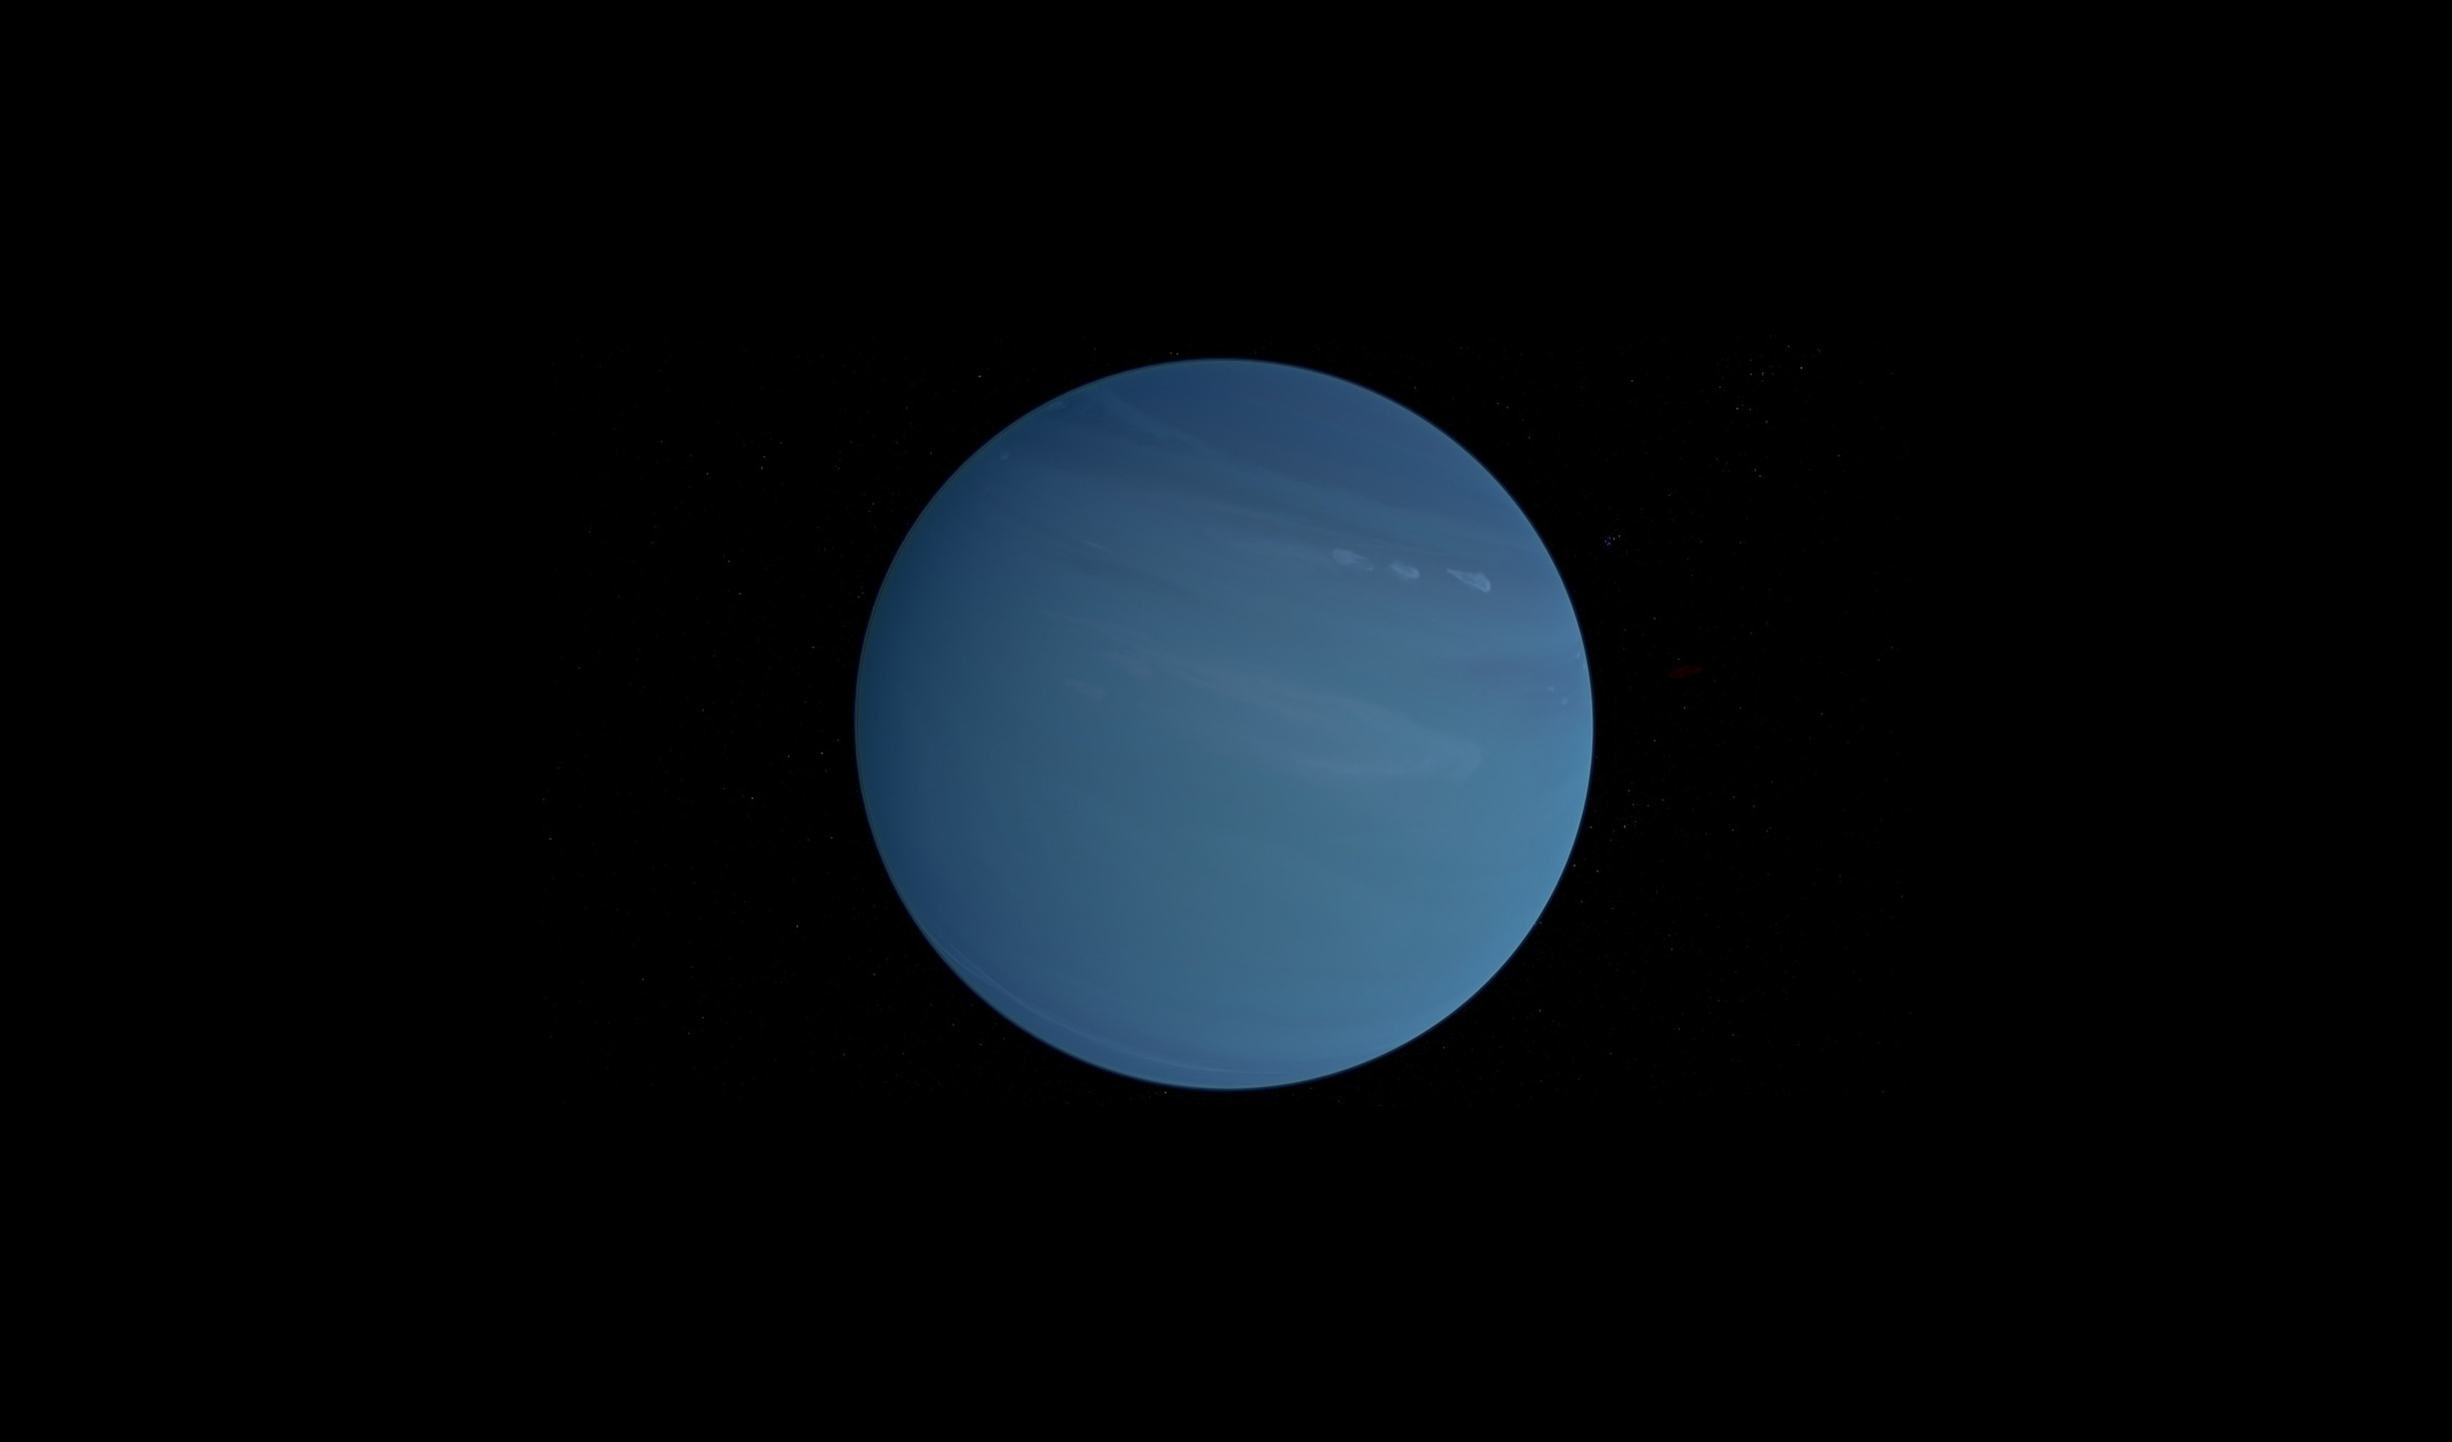
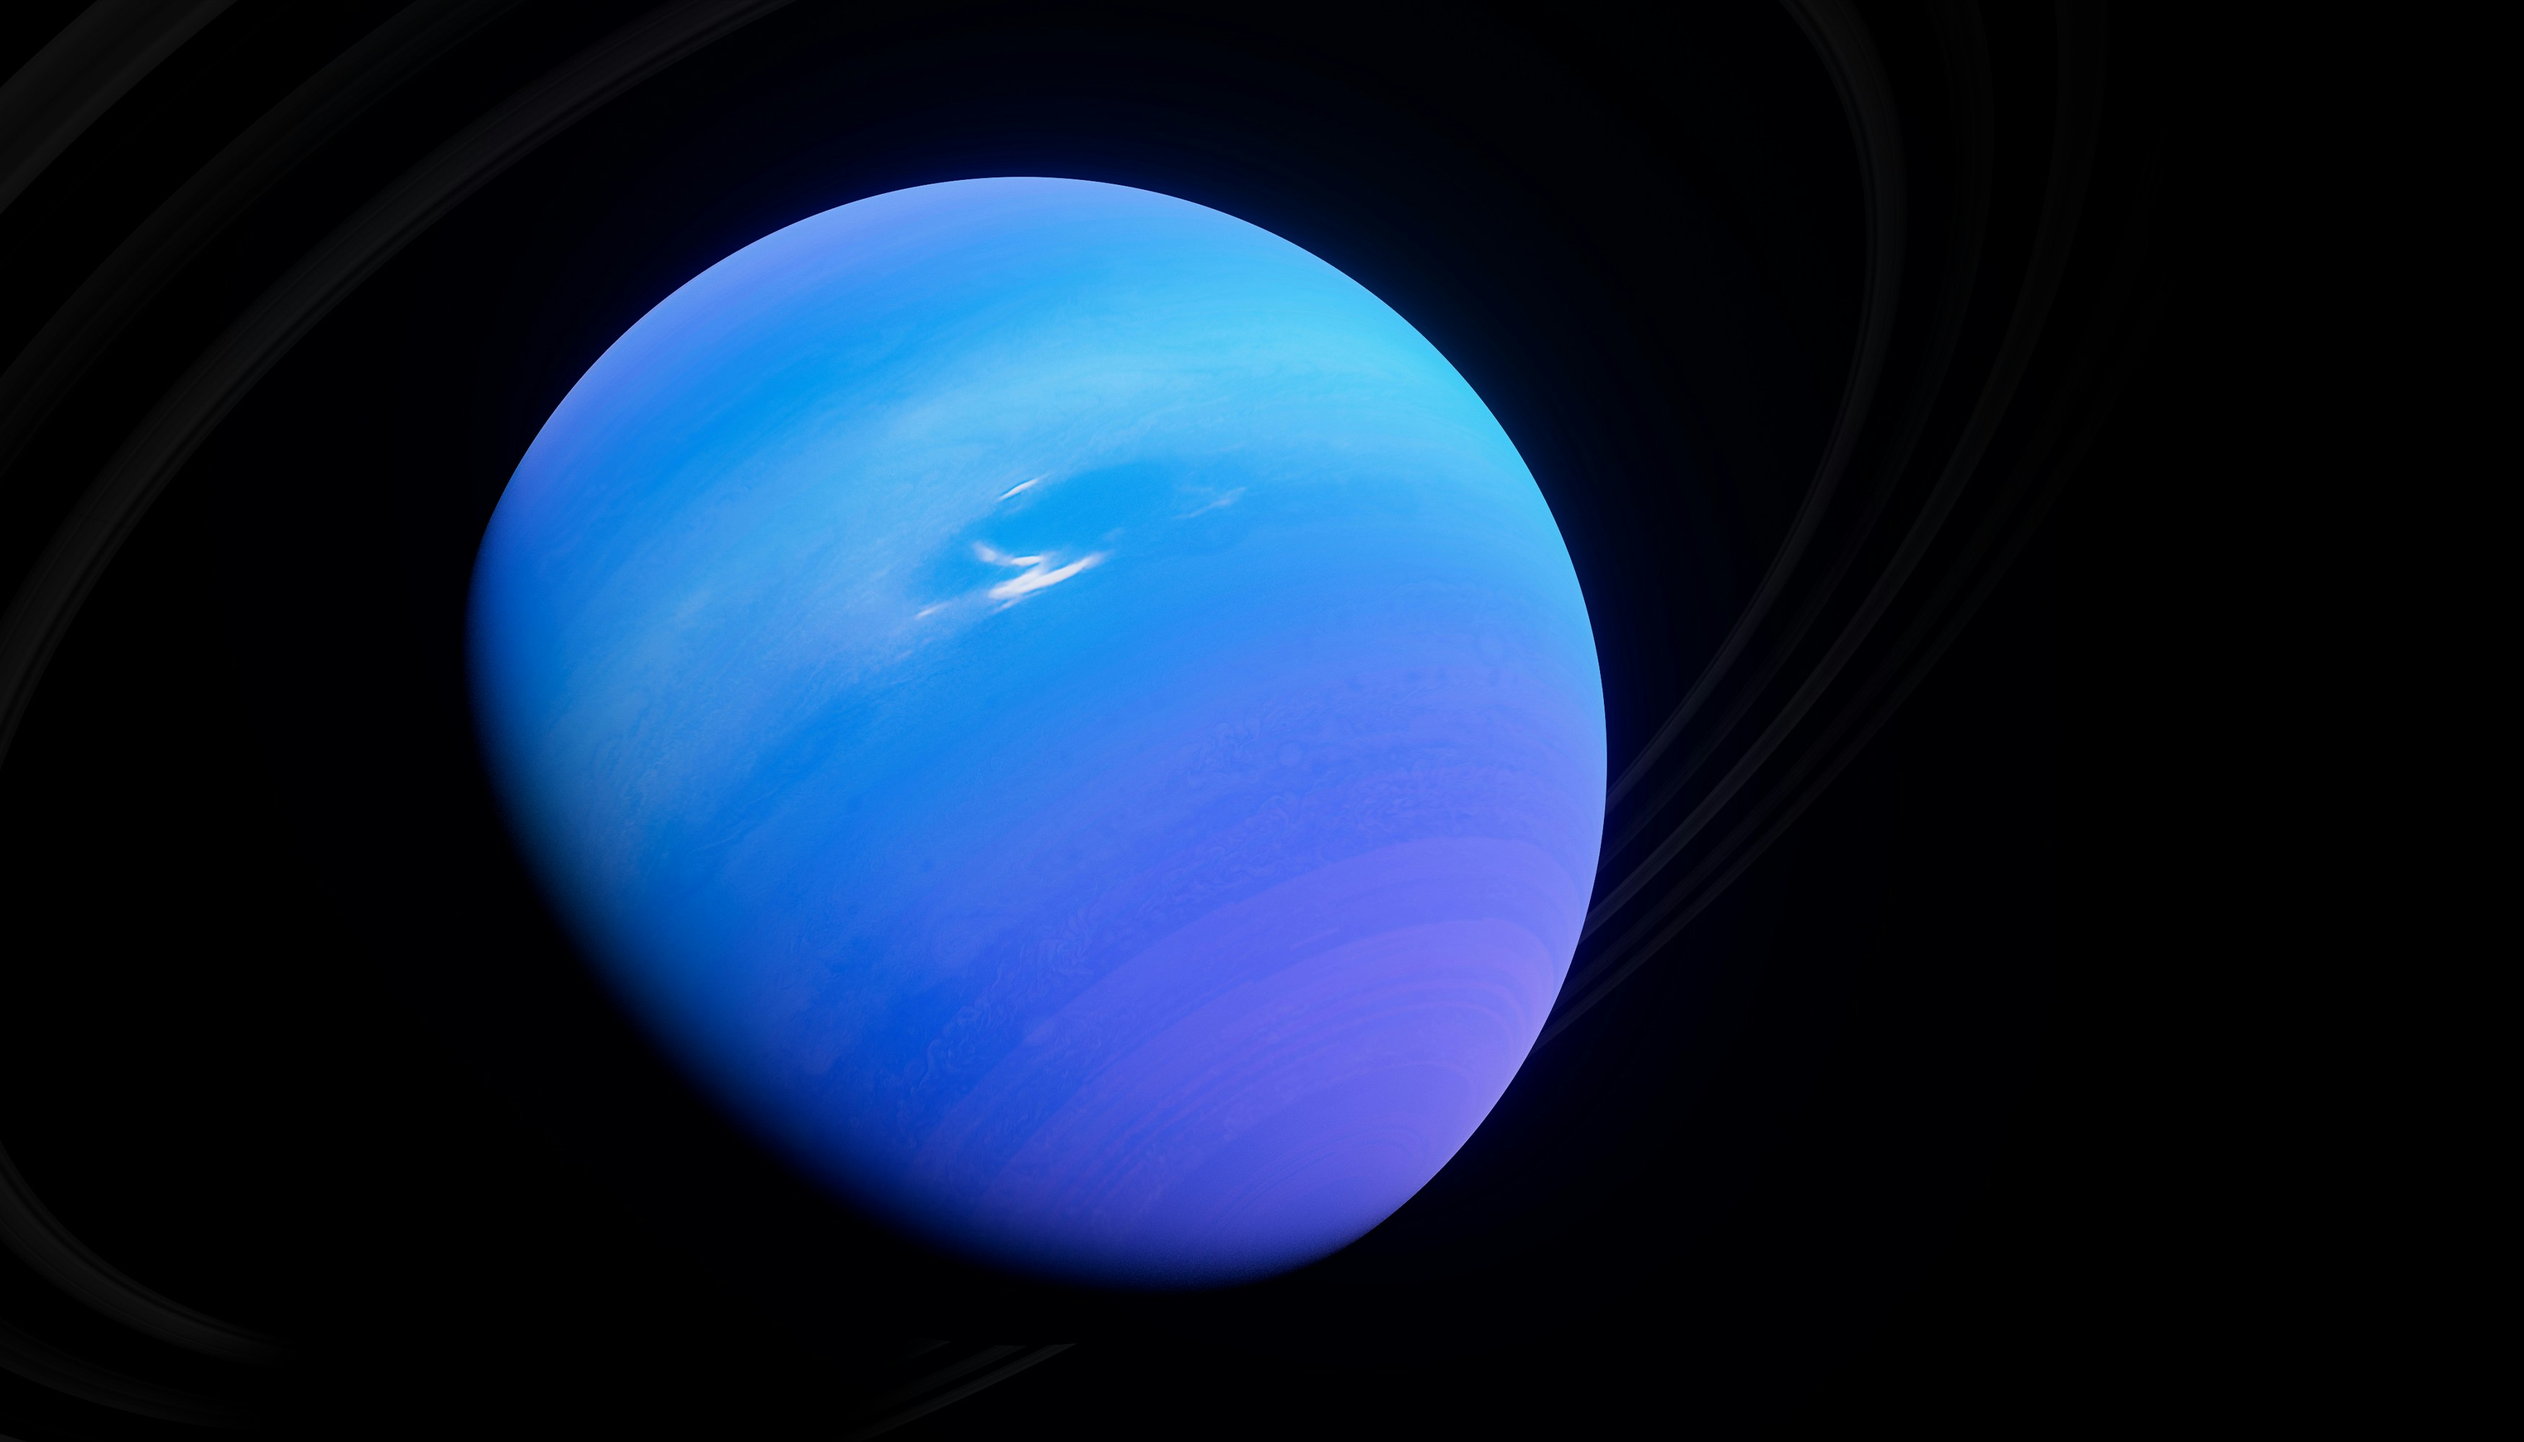
att

Changed region(s): [[0.1871, 0.062, 0.6859, 0.899]]

diff --git a/projeto-astronomia/buraconegro.html b/projeto-astronomia/buraconegro.html
@@ -52,7 +52,7 @@
         <h1 class="title">Buraco Negro</h1>
         <main id="buraconegro">
             <section>
-                <p>Buracos negros nascem quando uma estrela muito maior que o Sol chega ao fim da vida. Após gastar todo seu combustível, ela explode em uma supernova e seu núcleo colapsa sob a própria gravidade. Essa compressão extrema cria uma região tão densa e poderosa que nada — nem mesmo a luz — consegue escapar. Assim nasce um buraco negro, um dos fenômenos mais misteriosos e intensos do universo.</p>
+                <p class="text">Buracos negros nascem quando uma estrela muito maior que o Sol chega ao fim da vida. Após gastar todo seu combustível, ela explode em uma supernova e seu núcleo colapsa sob a própria gravidade. Essa compressão extrema cria uma região tão densa e poderosa que nada — nem mesmo a luz — consegue escapar. Assim nasce um buraco negro, um dos fenômenos mais misteriosos e intensos do universo.</p>
             </section>
         </main>
 

diff --git a/projeto-astronomia/sol.html b/projeto-astronomia/sol.html
@@ -12,7 +12,7 @@
     <link rel="stylesheet" href="estilos/curiosidades.css">
 </head>
 <body>
-    <header id="csol">
+    <header>
         <h1>Sol</h1>
     </header>
 
@@ -52,7 +52,7 @@
         <h1 class="title">Sol</h1>
         <main id="sol">
             <section>
-                <p>O Sol nasceu há cerca de 4,6 bilhões de anos, quando uma enorme nuvem de gás e poeira entrou em colapso pela gravidade. O centro dessa nuvem ficou tão quente e denso que começou a produzir luz e calor através de reações nucleares. Assim surgiu o Sol, a estrela que deu origem e energia para todo o Sistema Solar.</p>
+                <p class="text">O Sol nasceu há cerca de 4,6 bilhões de anos, quando uma enorme nuvem de gás e poeira entrou em colapso pela gravidade. O centro dessa nuvem ficou tão quente e denso que começou a produzir luz e calor através de reações nucleares. Assim surgiu o Sol, a estrela que deu origem e energia para todo o Sistema Solar.</p>
             </section>
         </main>
 

diff --git a/projeto-astronomia/estilos/curiosidades.css b/projeto-astronomia/estilos/curiosidades.css
@@ -26,7 +26,7 @@ header > h1{
 
 }
 
-#csol{
+header{
     background-image: url(../imagens/header-sol.jpg);
 }
 
@@ -36,13 +36,19 @@ main{
     background-size: cover;
 
     margin: auto;
-    width: 90%;
-    height: 50%;
+    width: 100%;
+    height: 70%;
     border-radius: 10px;
-    border: 5px solid rgba(255, 255, 255, 0.411);
     display: flex;
-    justify-content: left;
     align-items: center;
+}
+
+main#tempo, #sol, #buraconegro{
+    justify-content: left;
+}
+
+main#voyage{
+    justify-content: right;
 }
 
 section{
@@ -64,7 +70,7 @@ article{
 }
 
 .just{
-    background-image: url(../imagens/starry-sky-1655503.jpg);
+    
     background-position: center center;
     background-repeat: no-repeat;
     background-size: cover;
@@ -83,6 +89,12 @@ article{
     text-align: center;
     border-radius: 20px;
     border: 3px solid black;
+}
+
+.text{
+    text-align: left;
+    line-height: 1.3em;
+    font-size: 1.2em;
 }
 
 #sol{

diff --git a/projeto-astronomia/tempo.html b/projeto-astronomia/tempo.html
@@ -52,7 +52,7 @@
         <h1 class="title">O Tempo no espaço</h1>
         <main id="tempo">
             <section>
-                <p>Lorem ipsum dolor sit amet, consectetur adipisicing elit. Ipsam quod ducimus voluptatem sit aut corporis nisi pariatur, totam necessitatibus. Sit animi quis vel eaque, id necessitatibus cumque! Vel, vitae eaque.</p>
+                <p class="text">No espaço, o tempo não passa igual para todos. Ele depende da velocidade e da gravidade. Quanto mais rápido você se move, mais devagar o tempo passa para você. E quanto mais forte é a gravidade — como perto de um planeta gigante ou de um buraco negro — mais o tempo também desacelera. Isso significa que dois relógios em lugares diferentes do universo podem marcar tempos diferentes, mesmo sendo idênticos. Esse fenômeno é o que chamamos de espaço-tempo, onde o tempo e o espaço se curvam e mudam juntos.</p>
             </section>
         </main>
 

diff --git a/projeto-astronomia/jupiter.html b/projeto-astronomia/jupiter.html
@@ -54,7 +54,7 @@
 
     <main>
         <section id="jupiter">
-            <p class="text">Júpiter nasceu há cerca de 4,5 bilhões de anos, quando uma grande quantidade de gás, gelo e poeira começou a se acumular numa região fria do disco que rodeava o Sol jovem. Seu núcleo rochoso cresceu rápido e ficou tão massivo que passou a atrair enormes quantidades de hidrogênio e hélio — muito mais do que qualquer outro planeta. Assim, Júpiter se transformou no maior planeta do Sistema Solar, uma gigante bola de gás que molda a órbita e o comportamento de muitos objetos ao seu redor.</p>
+            <p class="text">Júpiter nasceu há cerca de 4,5 bilhões de anos quando um grande núcleo de gelo e rocha cresceu rápido e começou a atrair enormes quantidades de gás ao seu redor. Assim ele se tornou o maior planeta do Sistema Solar, uma gigantesca bola de hidrogênio e hélio.</p>
         </section>
     </main>
 

diff --git a/projeto-astronomia/marte.html b/projeto-astronomia/marte.html
@@ -54,7 +54,7 @@
 
     <main>
         <section id="marte">
-            <p class="text">Marte nasceu há cerca de 4,5 bilhões de anos, quando poeira e rochas da nebulosa solar começaram a se juntar na região fria e distante do Sol. Ele cresceu menos do que a Terra porque havia pouco material disponível para formar um planeta maior. Assim, Marte se tornou um mundo rochoso menor e mais frio, com uma atmosfera fina. Nos primeiros bilhões de anos, teve vulcões gigantes e bastante água líquida na superfície, deixando rastros que vemos até hoje.</p>
+            <p class="text">Marte se formou há cerca de 4,5 bilhões de anos quando poeira e rochas do Sistema Solar se juntaram, mas com menos material disponível que a Terra, resultando em um planeta menor e mais frio. No início, teve água e atividade vulcânica intensa, deixando marcas que ainda vemos hoje.</p>
         </section>
     </main>
 

diff --git a/projeto-astronomia/voyage.html b/projeto-astronomia/voyage.html
@@ -53,7 +53,7 @@
         <h1 class="title">Voyage 1</h1>
         <main id="voyage">
             <section>
-                <p>A Voyager 1 foi criada pela NASA e lançada em 1977 para explorar os planetas gigantes do Sistema Solar. Ela aproveitou um alinhamento raro entre os planetas para viajar usando pouca energia. O que era para durar poucos anos virou uma missão histórica: hoje, a Voyager 1 é o objeto humano mais distante da Terra, viajando pelo espaço interestelar.</p>
+                <p class="text">A Voyager 1 foi criada pela NASA e lançada em 1977 para explorar os planetas gigantes do Sistema Solar. Ela aproveitou um alinhamento raro entre os planetas para viajar usando pouca energia. O que era para durar poucos anos virou uma missão histórica: hoje, a Voyager 1 é o objeto humano mais distante da Terra, viajando pelo espaço interestelar.</p>
             </section>
         </main>
 

diff --git a/projeto-astronomia/terra.html b/projeto-astronomia/terra.html
@@ -56,7 +56,7 @@
     <main>
         <section id="terra">
             <div class="text">
-                <p>A Terra surgiu há 4,6 bilhões de anos, formada a partir de poeira e rochas que orbitavam o Sol jovem. No começo, era um mundo de fogo, até que um grande impacto criou a Lua e o planeta começou a esfriar. Com o tempo, surgiram oceanos, atmosfera e as condições perfeitas para a vida. Hoje, a Terra é o único lugar conhecido no universo capaz de abrigar tamanha diversidade de seres, resultado de um equilíbrio raro e extraordinário.</p>
+                <p>A Terra nasceu há cerca de 4,6 bilhões de anos quando poeira e rochas ao redor do Sol se juntaram pela gravidade, formando um planeta inicialmente quente e derretido. Depois, ela foi esfriando, criando oceanos, atmosfera e as condições perfeitas para o surgimento da vida.</p>
             </div>
         </section>
     </main>

diff --git a/projeto-astronomia/venus.html b/projeto-astronomia/venus.html
@@ -55,7 +55,7 @@
 
     <main>
         <section id="venus">
-            <p class="text">Vênus nasceu há cerca de 4,5 bilhões de anos, quando rochas e poeira da nebulosa solar se aglutinaram perto do Sol. A junção contínua desses materiais formou um planeta rochoso muito parecido em tamanho com a Terra. Com o tempo, sua atmosfera ficou cada vez mais densa e cheia de dióxido de carbono, criando o efeito estufa extremo que transformou Vênus no planeta mais quente do Sistema Solar.</p>
+            <p class="text">Vênus surgiu há cerca de 4,5 bilhões de anos quando rochas e poeira do disco ao redor do Sol se uniram e formaram um planeta rochoso parecido com a Terra. Com o tempo, sua atmosfera ficou extremamente densa, criando o efeito estufa que transformou Vênus no planeta mais quente do Sistema Solar.</p>
         </section>
     </main>
 

diff --git a/projeto-astronomia/netuno.html b/projeto-astronomia/netuno.html
@@ -55,7 +55,7 @@
 
     <main>
         <section id="netuno">
-            <p class="text">Netuno surgiu há cerca de 4,5 bilhões de anos, quando gás, gelo e poeira da nebulosa solar começaram a se juntar nas regiões mais frias e distantes do Sol. Por estar tão longe, ele conseguiu acumular grande quantidade de material gelado, tornando-se um gigante de gelo. Com o tempo, sua gravidade ficou forte o bastante para capturar ainda mais gás, moldando o planeta azul profundo que conhecemos hoje.</p>
+            <p class="text">Netuno surgiu há cerca de 4,5 bilhões de anos quando grandes quantidades de gás, gelo e poeira das partes mais frias e distantes do Sistema Solar se juntaram, formando um gigante de gelo. Sua forte gravidade ajudou a moldar o planeta azul profundo que conhecemos hoje.</p>
         </section>
     </main>
 

diff --git a/projeto-astronomia/saturno.html b/projeto-astronomia/saturno.html
@@ -54,7 +54,7 @@
 
     <main>
         <section id="saturno">
-            <p class="text">Saturno nasceu há cerca de 4,5 bilhões de anos, quando gelo, gás e poeira do disco que rodeava o Sol jovem começaram a se juntar nas regiões mais frias do Sistema Solar. Seu núcleo cresceu rápido e passou a atrair enormes quantidades de hidrogênio e hélio, transformando-se em um gigante gasoso. Com o tempo, fragmentos de gelo e rocha ficaram presos em sua órbita, formando seus famosos anéis.</p>
+            <p class="text">Saturno se formou há cerca de 4,5 bilhões de anos quando gelo, gás e poeira das regiões frias do Sistema Solar se juntaram, criando um enorme gigante gasoso. Com o tempo, fragmentos de gelo e rocha ficaram presos ao seu redor, formando seus famosos anéis.</p>
         </section>
     </main>
 

diff --git a/projeto-astronomia/mercurio.html b/projeto-astronomia/mercurio.html
@@ -54,7 +54,7 @@
 
     <main>
         <section id="mercurio">
-            <p class="text">Mercúrio nasceu há cerca de 4,5 bilhões de anos, quando pequenas rochas e poeira da nebulosa solar começaram a se juntar perto do Sol. As temperaturas extremas dessa região impediram a formação de um planeta grande, por isso Mercúrio acabou ficando pequeno, denso e com um núcleo metálico enorme. Sua superfície cheia de crateras é resultado dos impactos intensos que sofreu nos primeiros tempos do Sistema Solar.</p>
+            <p class="text">Mercúrio surgiu há 4,5 bilhões de anos quando rochas e poeira perto do Sol se juntaram. O calor intenso fez ele nascer pequeno e muito denso, com um núcleo metálico enorme e uma superfície cheia de crateras.</p>
         </section>
     </main>
 
